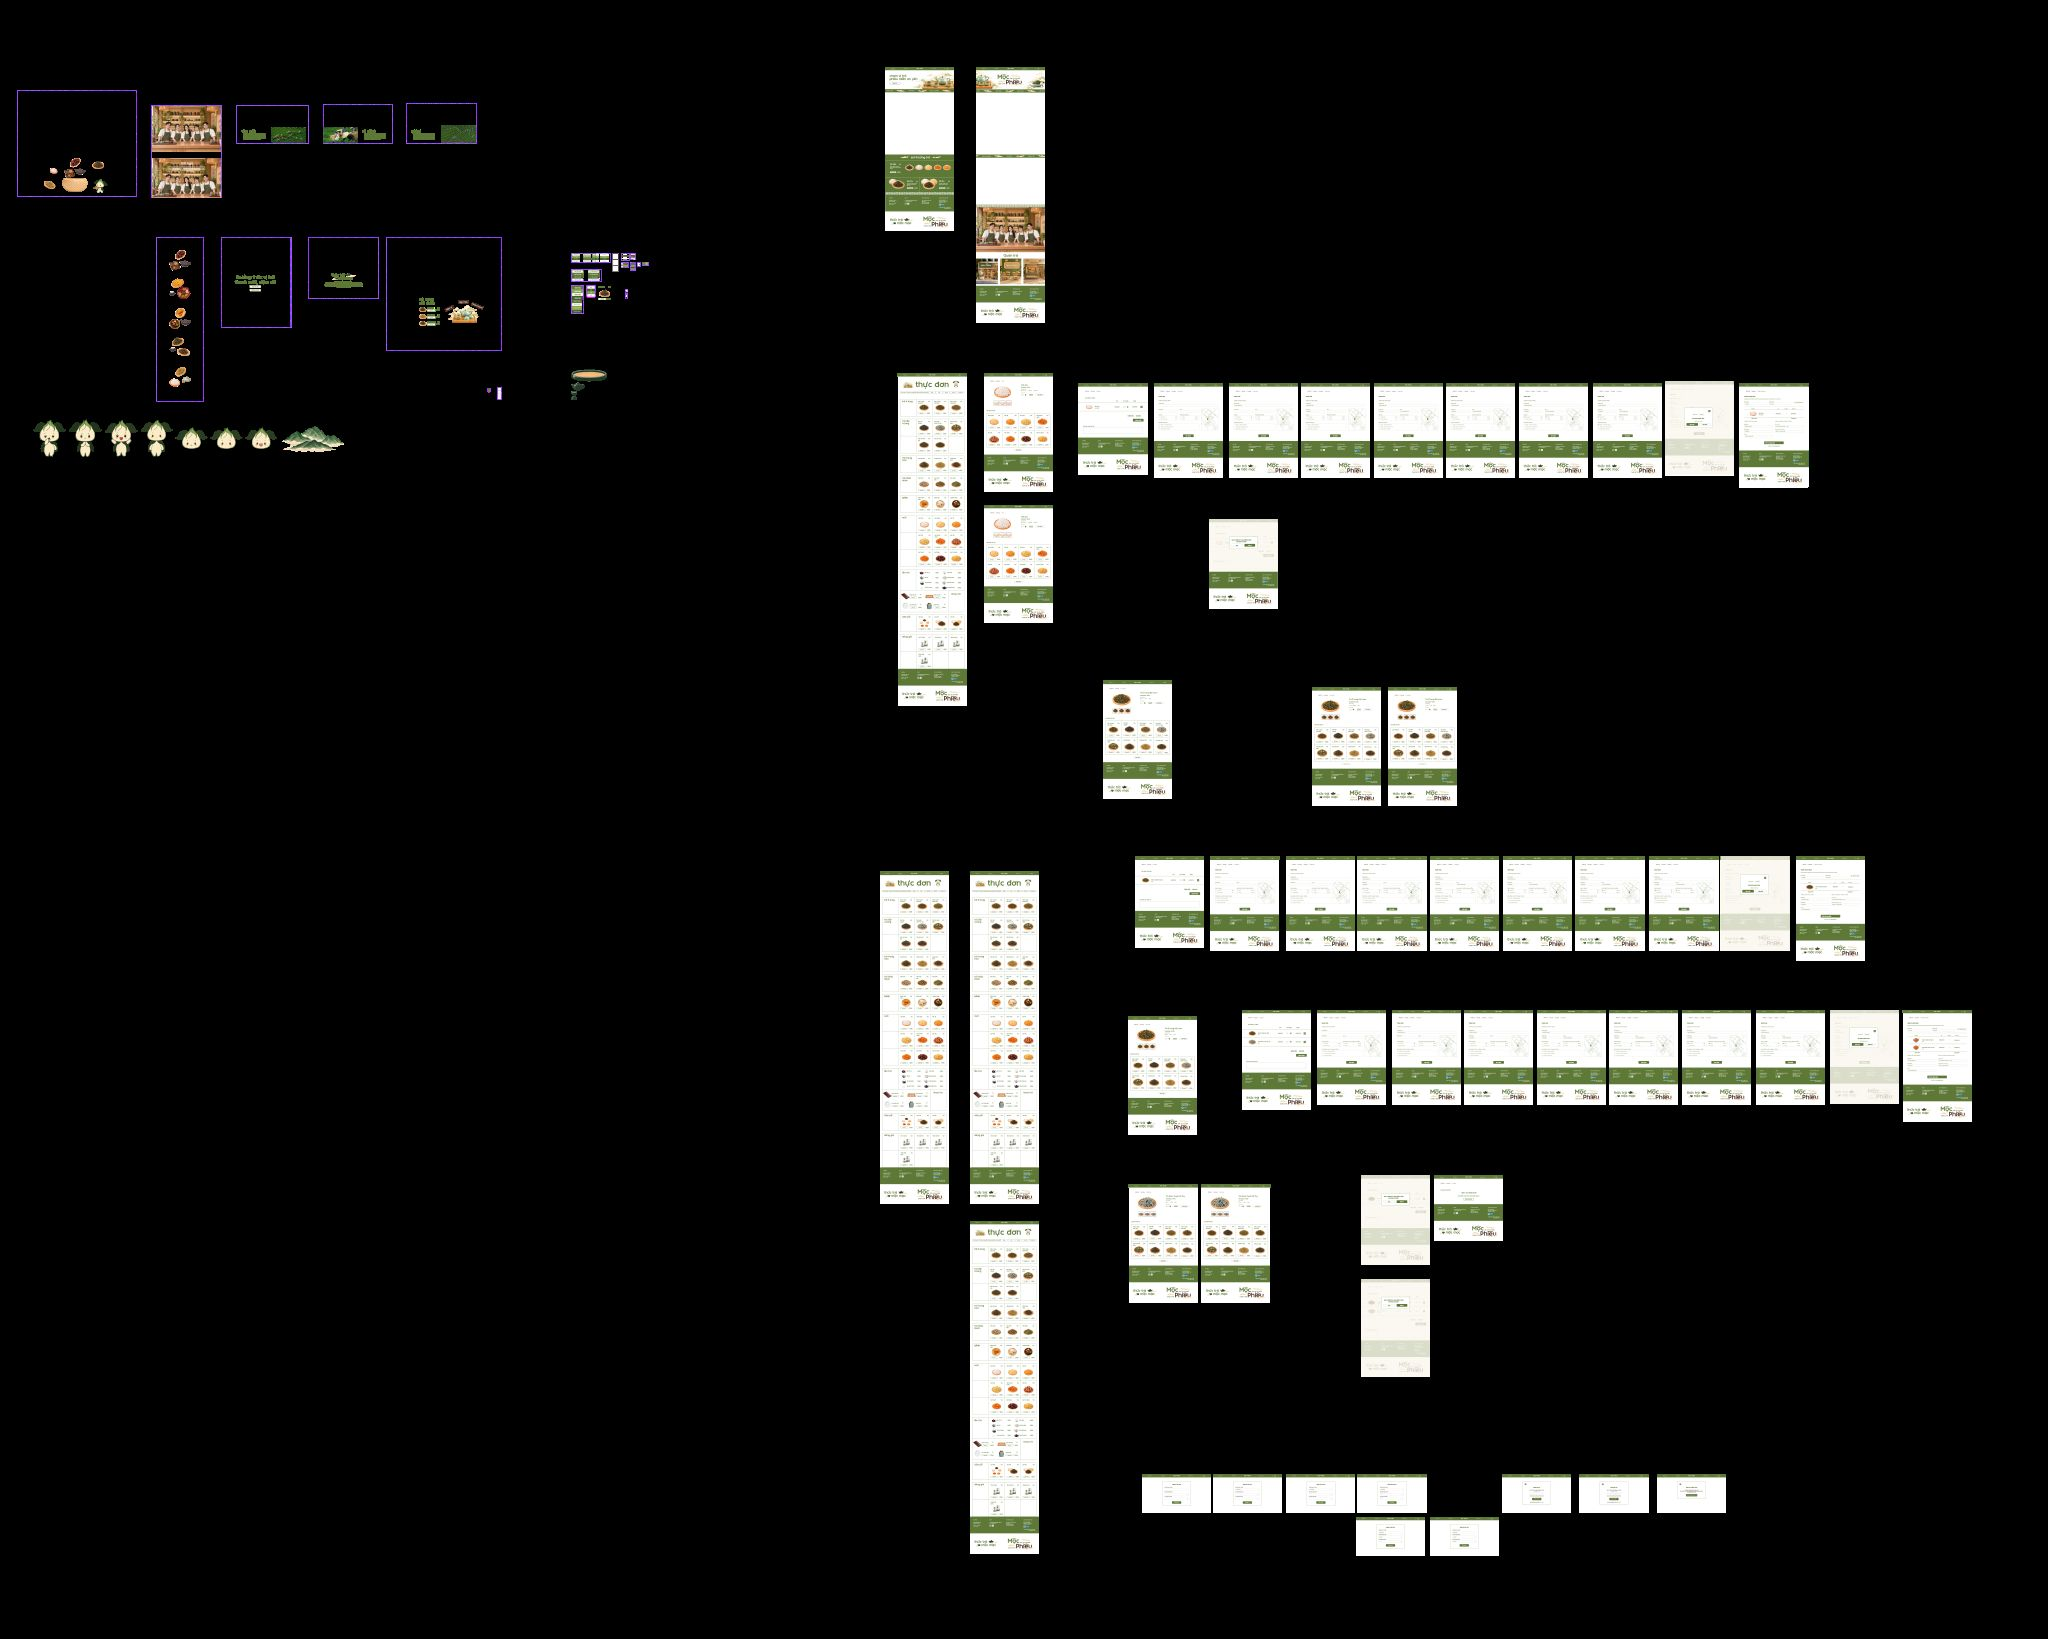
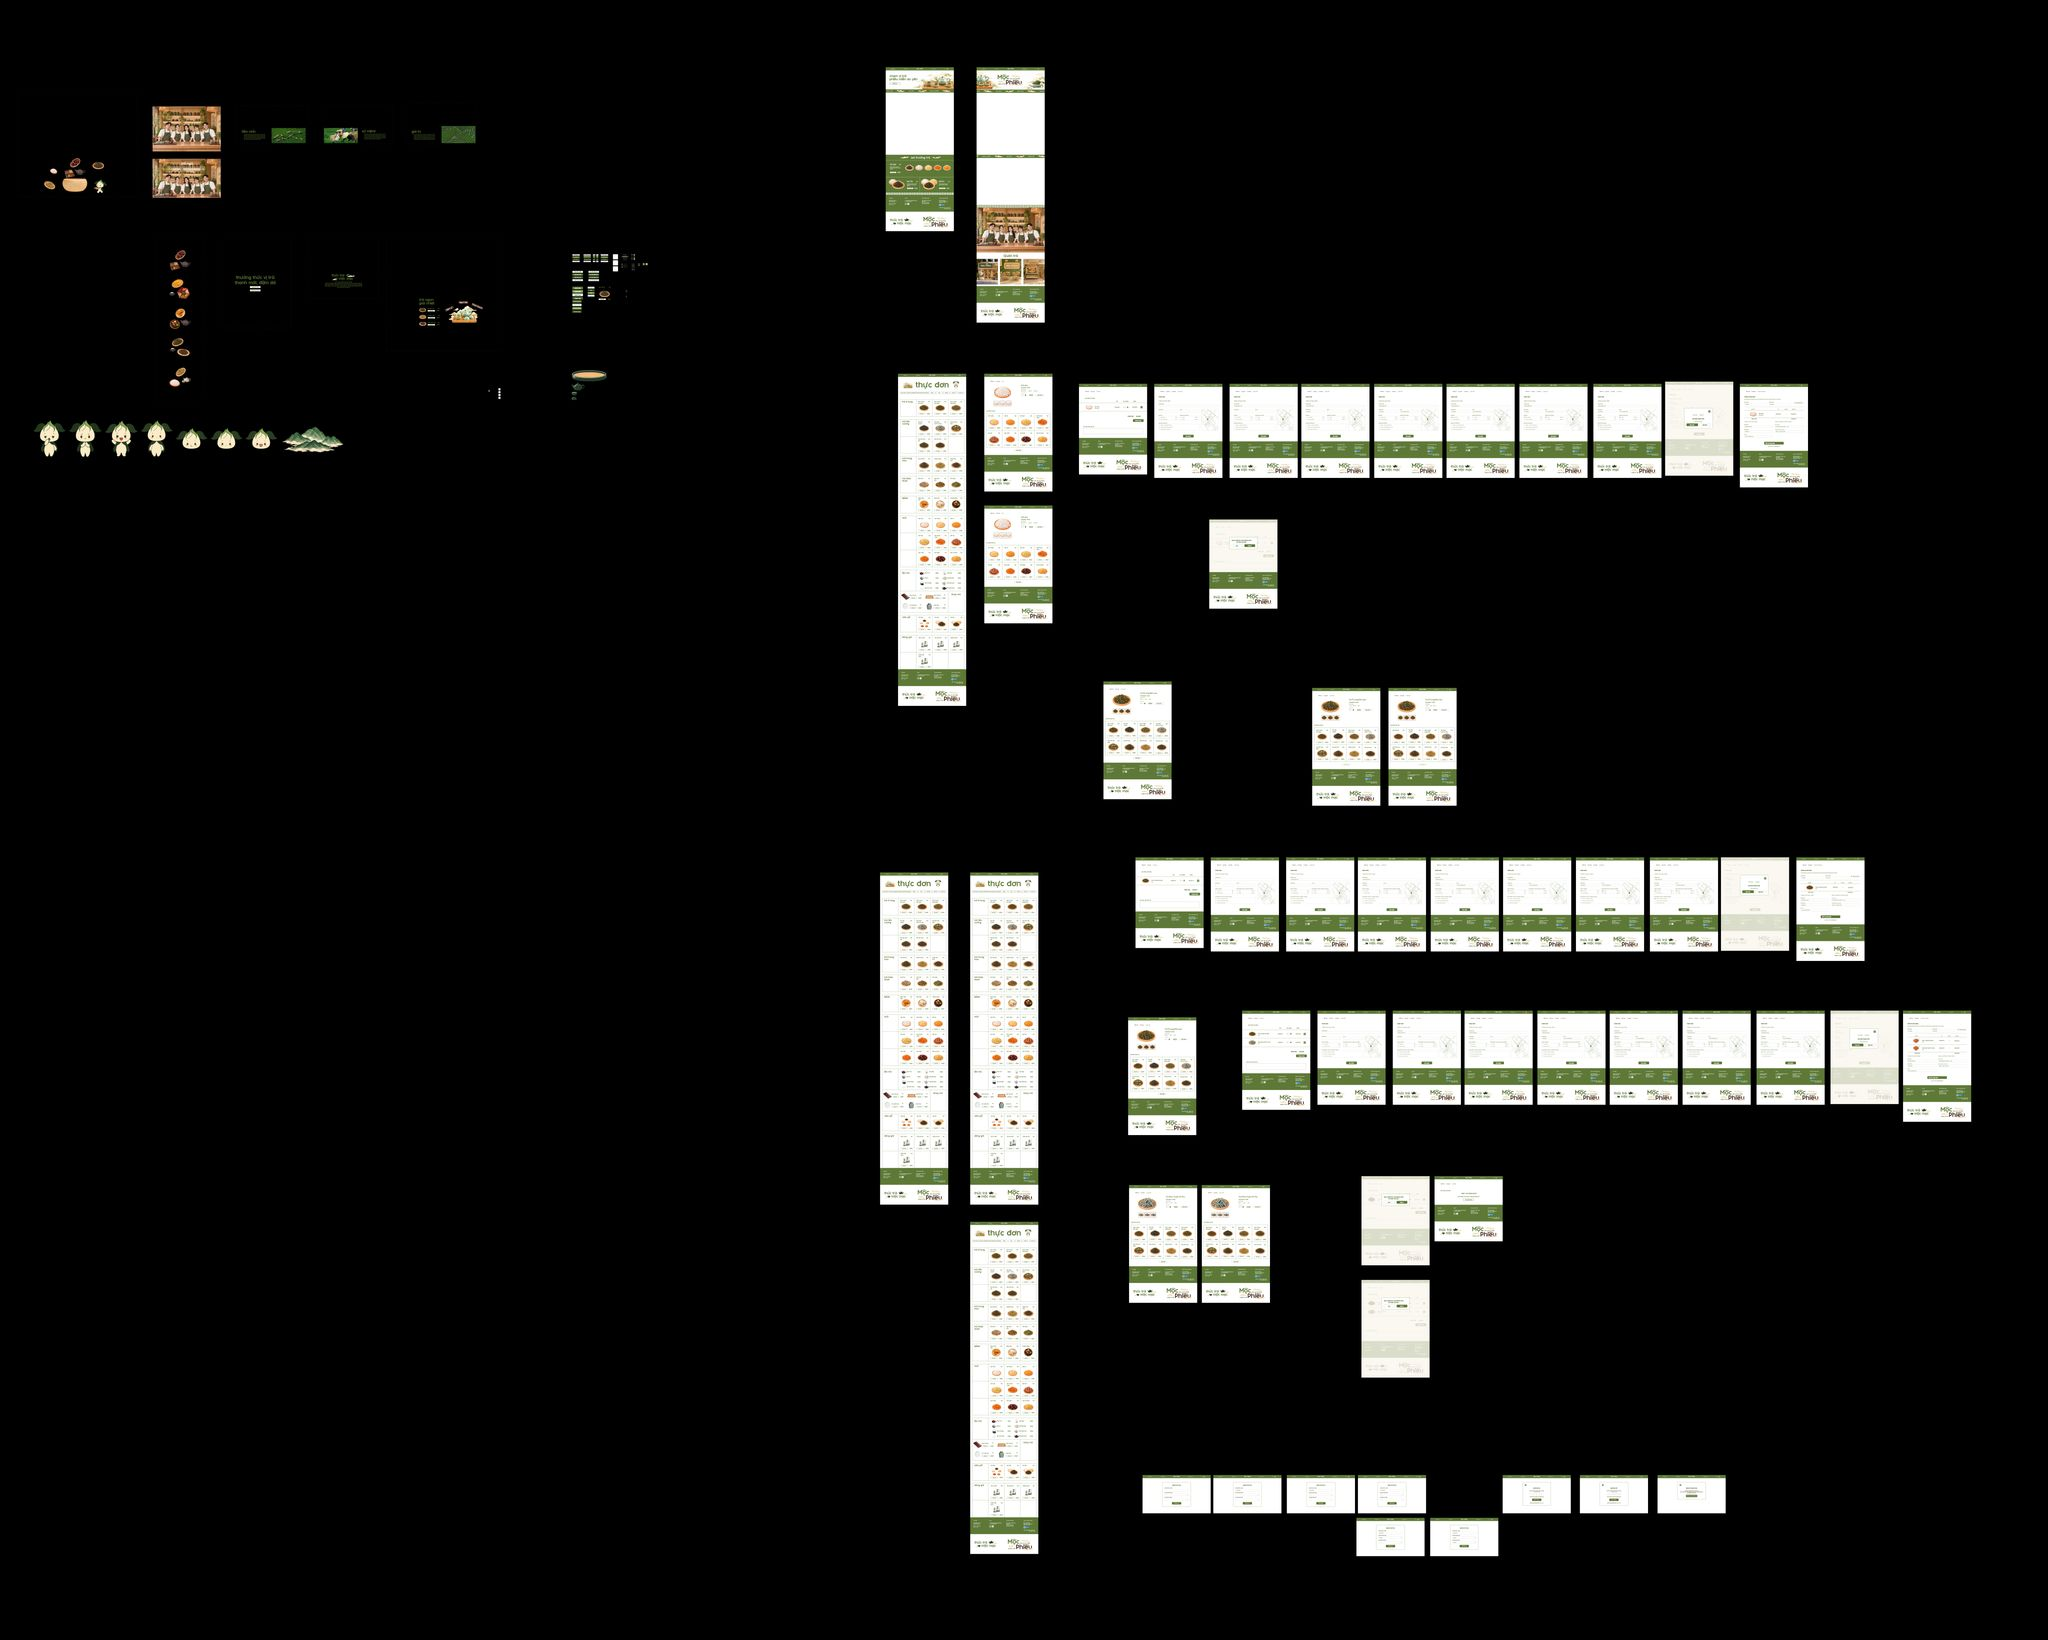
Fix FallingTeaShowcase: use authentic high-res Figma artboard slice without screenshot artifacts

diff --git a/components/FallingTeaShowcase.tsx b/components/FallingTeaShowcase.tsx
@@ -9,15 +9,15 @@ export default function FallingTeaShowcase() {
       <div className="about-showcase-container">
         <motion.div
           className="about-showcase-art-wrap"
-          initial={{ opacity: 0, y: 25, scale: 0.98 }}
-          whileInView={{ opacity: 1, y: 0, scale: 1 }}
+          initial={{ opacity: 0, y: 20 }}
+          whileInView={{ opacity: 1, y: 0 }}
           viewport={{ once: true, amount: 0.2 }}
-          transition={{ duration: 0.7, ease: [0.22, 1, 0.36, 1] }}
+          transition={{ duration: 0.6, ease: [0.22, 1, 0.36, 1] }}
         >
           <Image
-            src="/assets/about-sec-basket-stage.png"
-            width={1200}
-            height={688}
+            src="/assets/about-falling-tea-stage-clean.jpg"
+            width={1920}
+            height={800}
             alt="Thúng tre hội tụ thức trà và linh vật Mộc Phiêu"
             priority
             className="about-showcase-main-img"
